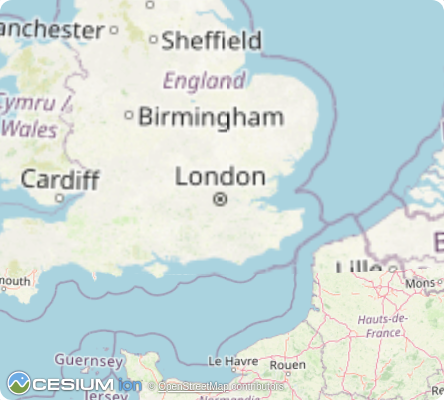
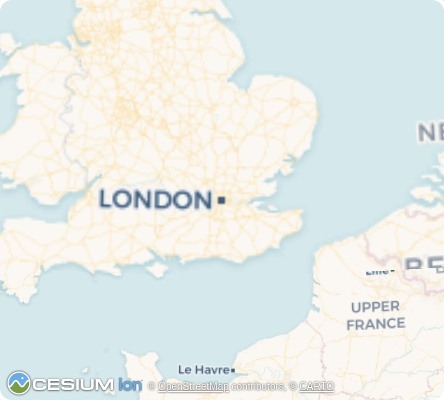
chore(map-server): add home button, update README and screenshots
- Add home button to return to initial view from tool input
- Update README with style parameter documentation
- Update all screenshots via docker E2E tests
- Tile style persistence already implemented via localStorage

diff --git a/examples/map-server/mcp-app.html b/examples/map-server/mcp-app.html
@@ -21,10 +21,9 @@
             border-radius: .75rem;
             overflow: hidden;
         }
-        #fullscreen-btn {
+        .map-btn {
             position: absolute;
             top: 10px;
-            right: 10px;
             width: 36px;
             height: 36px;
             background: rgba(0, 0, 0, 0.7);
@@ -37,13 +36,19 @@
             justify-content: center;
             transition: background 0.2s;
         }
-        #fullscreen-btn:hover {
+        .map-btn:hover {
             background: rgba(0, 0, 0, 0.85);
         }
-        #fullscreen-btn svg {
+        .map-btn svg {
             width: 20px;
             height: 20px;
             fill: white;
+        }
+        #home-btn {
+            left: 10px;
+        }
+        #fullscreen-btn {
+            right: 10px;
         }
         #loading {
             position: absolute;
@@ -61,7 +66,11 @@
 </head>
 <body>
     <div id="cesiumContainer"></div>
-    <button id="fullscreen-btn" title="Toggle fullscreen">
+    <button id="home-btn" class="map-btn" title="Return to initial view">
+        <!-- Home icon -->
+        <svg viewBox="0 0 24 24"><path d="M10 20v-6h4v6h5v-8h3L12 3 2 12h3v8z"/></svg>
+    </button>
+    <button id="fullscreen-btn" class="map-btn" title="Toggle fullscreen">
         <!-- Expand icon (shown when inline) -->
         <svg id="expand-icon" viewBox="0 0 24 24"><path d="M7 14H5v5h5v-2H7v-3zm-2-4h2V7h3V5H5v5zm12 7h-3v2h5v-5h-2v3zM14 5v2h3v3h2V5h-5z"/></svg>
         <!-- Compress icon (shown when fullscreen) -->

diff --git a/examples/map-server/src/mcp-app.ts b/examples/map-server/src/mcp-app.ts
@@ -64,6 +64,9 @@ type MapStyle = "carto" | "osm";
 // Current map style (set from tool input, defaults to 'carto')
 let currentMapStyle: MapStyle = "carto";
 
+// Initial bounding box from tool input (for home button)
+let initialBoundingBox: BoundingBox | null = null;
+
 // CesiumJS viewer instance
 // eslint-disable-next-line @typescript-eslint/no-explicit-any
 let viewer: any = null;
@@ -816,6 +819,22 @@ const app = new App(
 );
 
 /**
+ * Show home button and set up click handler
+ */
+function setupHomeButton(cesiumViewer: any): void {
+  const btn = document.getElementById("home-btn");
+  if (!btn) return;
+
+  btn.style.display = "flex";
+  btn.addEventListener("click", () => {
+    if (initialBoundingBox && cesiumViewer) {
+      log.info("Returning to initial view:", initialBoundingBox);
+      setViewToBoundingBox(cesiumViewer, initialBoundingBox);
+    }
+  });
+}
+
+/**
  * Update fullscreen button visibility and icon based on current state
  */
 function updateFullscreenButton(): void {
@@ -977,6 +996,13 @@ app.ontoolinput = async (params) => {
     if (bbox) {
       // Mark that we received explicit tool input (overrides persisted state)
       hasReceivedToolInput = true;
+
+      // Store initial bbox for home button
+      if (!initialBoundingBox) {
+        initialBoundingBox = bbox;
+        setupHomeButton(viewer);
+      }
+
       log.info("Positioning camera to bbox:", bbox);
 
       // Position camera instantly (no animation)

diff --git a/examples/map-server/README.md b/examples/map-server/README.md
@@ -2,13 +2,14 @@
 
 ![Screenshot](screenshot.png)
 
-Interactive 3D globe viewer using CesiumJS with OpenStreetMap tiles. Demonstrates geocoding integration and full MCP App capabilities.
+Interactive 3D globe viewer using CesiumJS with multiple tile provider options. Demonstrates geocoding integration and full MCP App capabilities.
 
 ## Features
 
 - **3D Globe Rendering**: Interactive CesiumJS globe with rotation, zoom, and 3D perspective
 - **Geocoding**: Search for places using OpenStreetMap Nominatim (no API key required)
-- **OpenStreetMap Tiles**: Uses free OSM tile server (no Cesium Ion token needed)
+- **Multiple Tile Styles**: Choose between Carto Voyager (smooth, with retina support) or classic OpenStreetMap tiles
+- **Retina Support**: Automatic @2x tile loading on high-DPI displays for sharper rendering
 - **Dynamic Loading**: CesiumJS loaded from CDN at runtime for smaller bundle size
 
 ## Running
@@ -53,11 +54,15 @@ Display the 3D globe zoomed to a bounding box.
   "south": 48.85,
   "east": 2.3,
   "north": 48.86,
-  "label": "Eiffel Tower"
+  "label": "Eiffel Tower",
+  "style": "carto"
 }
 ```
 
-Defaults to London if no coordinates provided.
+Parameters:
+- `west`, `south`, `east`, `north`: Bounding box coordinates (defaults to London)
+- `label`: Optional label to display
+- `style`: Tile style - `"carto"` (default, smooth with retina) or `"osm"` (classic, more detailed)
 
 ## Architecture
 
@@ -66,18 +71,19 @@ Defaults to London if no coordinates provided.
 Exposes two tools:
 
 - `geocode` - Queries OpenStreetMap Nominatim API with rate limiting
-- `show-map` - Renders the CesiumJS globe UI at a specified location
+- `show-map` - Renders the CesiumJS globe UI at a specified location with configurable tile style
 
-Configures Content Security Policy to allow fetching tiles from OSM and Cesium CDN.
+Configures Content Security Policy to allow fetching tiles from Carto, OSM, and Cesium CDN.
 
 ### App (`src/mcp-app.ts`)
 
 Vanilla TypeScript app that:
 
 - Dynamically loads CesiumJS from CDN
-- Initializes globe with OpenStreetMap imagery (no Ion token)
+- Supports multiple tile providers (Carto Voyager with @2x retina, classic OSM)
 - Receives tool inputs via the MCP App SDK
 - Handles camera navigation to specified bounding boxes
+- Switches tile styles at runtime based on tool input
 
 ## Key Files
 
